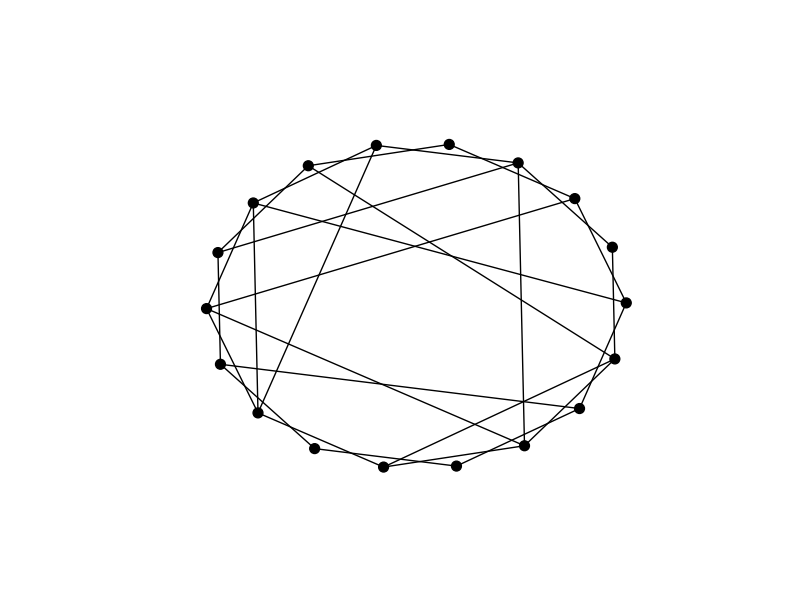
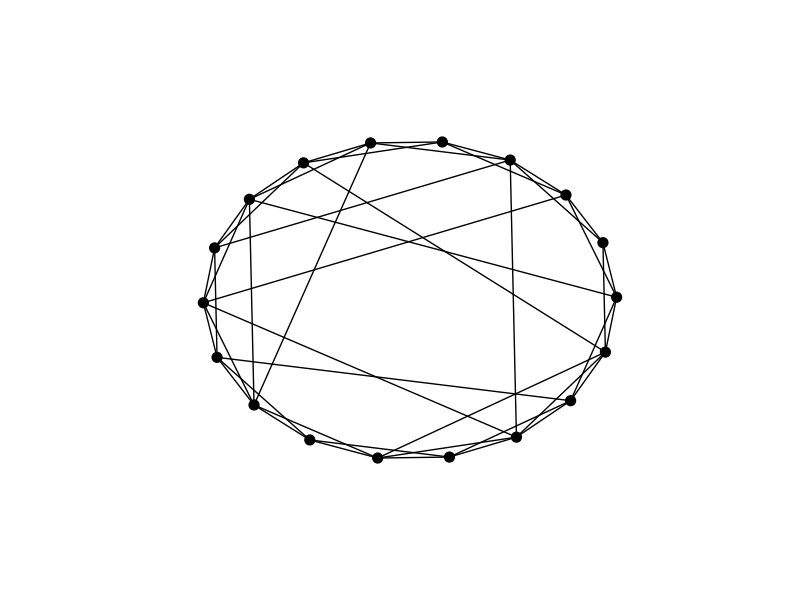
give up

diff --git a/smallworld/sw1.py b/smallworld/sw1.py
@@ -59,6 +59,12 @@ edges.append((6, 12))
 edges.append((10, 16))
 edges.append((14, 18))
 
+for i in range(1, 19):
+    edges.append((i, i + 1))
+edges = edges[0:-1]
+edges.append((18, 1))
+
+
 nx.draw_networkx_nodes(G, pos, nodelist=nodes, node_color='k', node_size=50, alpha=1)
 nx.draw_networkx_edges(G, pos, width=1.0, alpha=0.5)
 nx.draw_networkx_edges(G, pos, edgelist=edges, width=1.0, alpha=1)
@@ -69,4 +75,5 @@ nx.draw_networkx_edges(G, pos, edgelist=edges, width=1.0, alpha=1)
 
 # show the plot
 plt.axis('off')
+plt.savefig("sw1.png")
 plt.show()

diff --git a/smallworld/sw.py b/smallworld/sw.py
@@ -53,6 +53,10 @@ for i in range(1, 19):
 edges = edges[0:-2]
 edges.append((17, 1))
 edges.append((18, 2))
+for i in range(1, 19):
+    edges.append((i, i + 1))
+edges = edges[0:-1]
+edges.append((18, 1))
 
 nx.draw_networkx_nodes(G, pos, nodelist=nodes, node_color='k', node_size=50, alpha=1)
 nx.draw_networkx_edges(G, pos, width=1.0, alpha=0.5)
@@ -64,4 +68,5 @@ nx.draw_networkx_edges(G, pos, edgelist=edges, width=1.0, alpha=1)
 
 # show the plot
 plt.axis('off')
+plt.savefig("sw.png")
 plt.show()

diff --git a/smallworld/sw2.py b/smallworld/sw2.py
@@ -66,6 +66,11 @@ edges.append((16, 4))
 edges.append((18, 7))
 edges.append((1, 8))
 
+for i in range(1, 19):
+    edges.append((i, i + 1))
+edges = edges[0:-1]
+edges.append((18, 1))
+
 plt.axis('off')
 npos = {}
 for key, val in pos.items():
@@ -78,4 +83,5 @@ nx.draw_networkx_edges(G, npos, width=1.0, alpha=0.5)
 nx.draw_networkx_edges(G, npos, edgelist=edges, width=1.0, alpha=1)
 
 # show the plot
+plt.savefig("sw2.png")
 plt.show()
